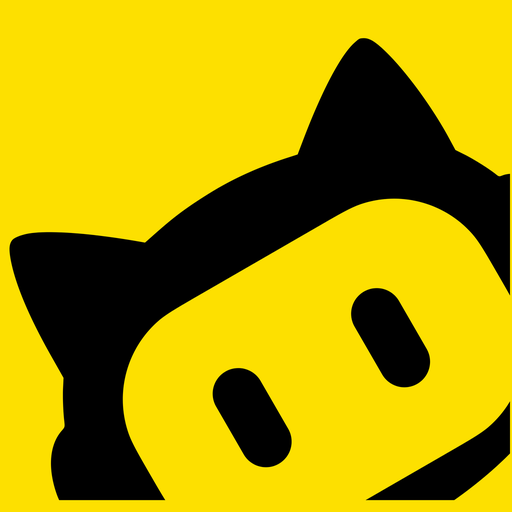
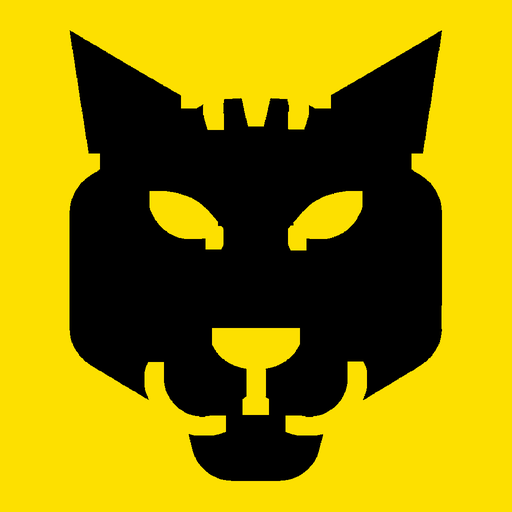
更新投资控制台（主屏图标 + 云同步修复）

diff --git a/sw.js b/sw.js
@@ -9,7 +9,7 @@
    为什么要这个：手机上「加到主屏」后，如果断网或信号差，
    至少能打开界面看到上次的持仓和档位，不至于一片空白。 */
 
-var CACHE = 'stock-console-v23';
+var CACHE = 'stock-console-v24';
 var ASSETS = [
   './',
   './index.html',
